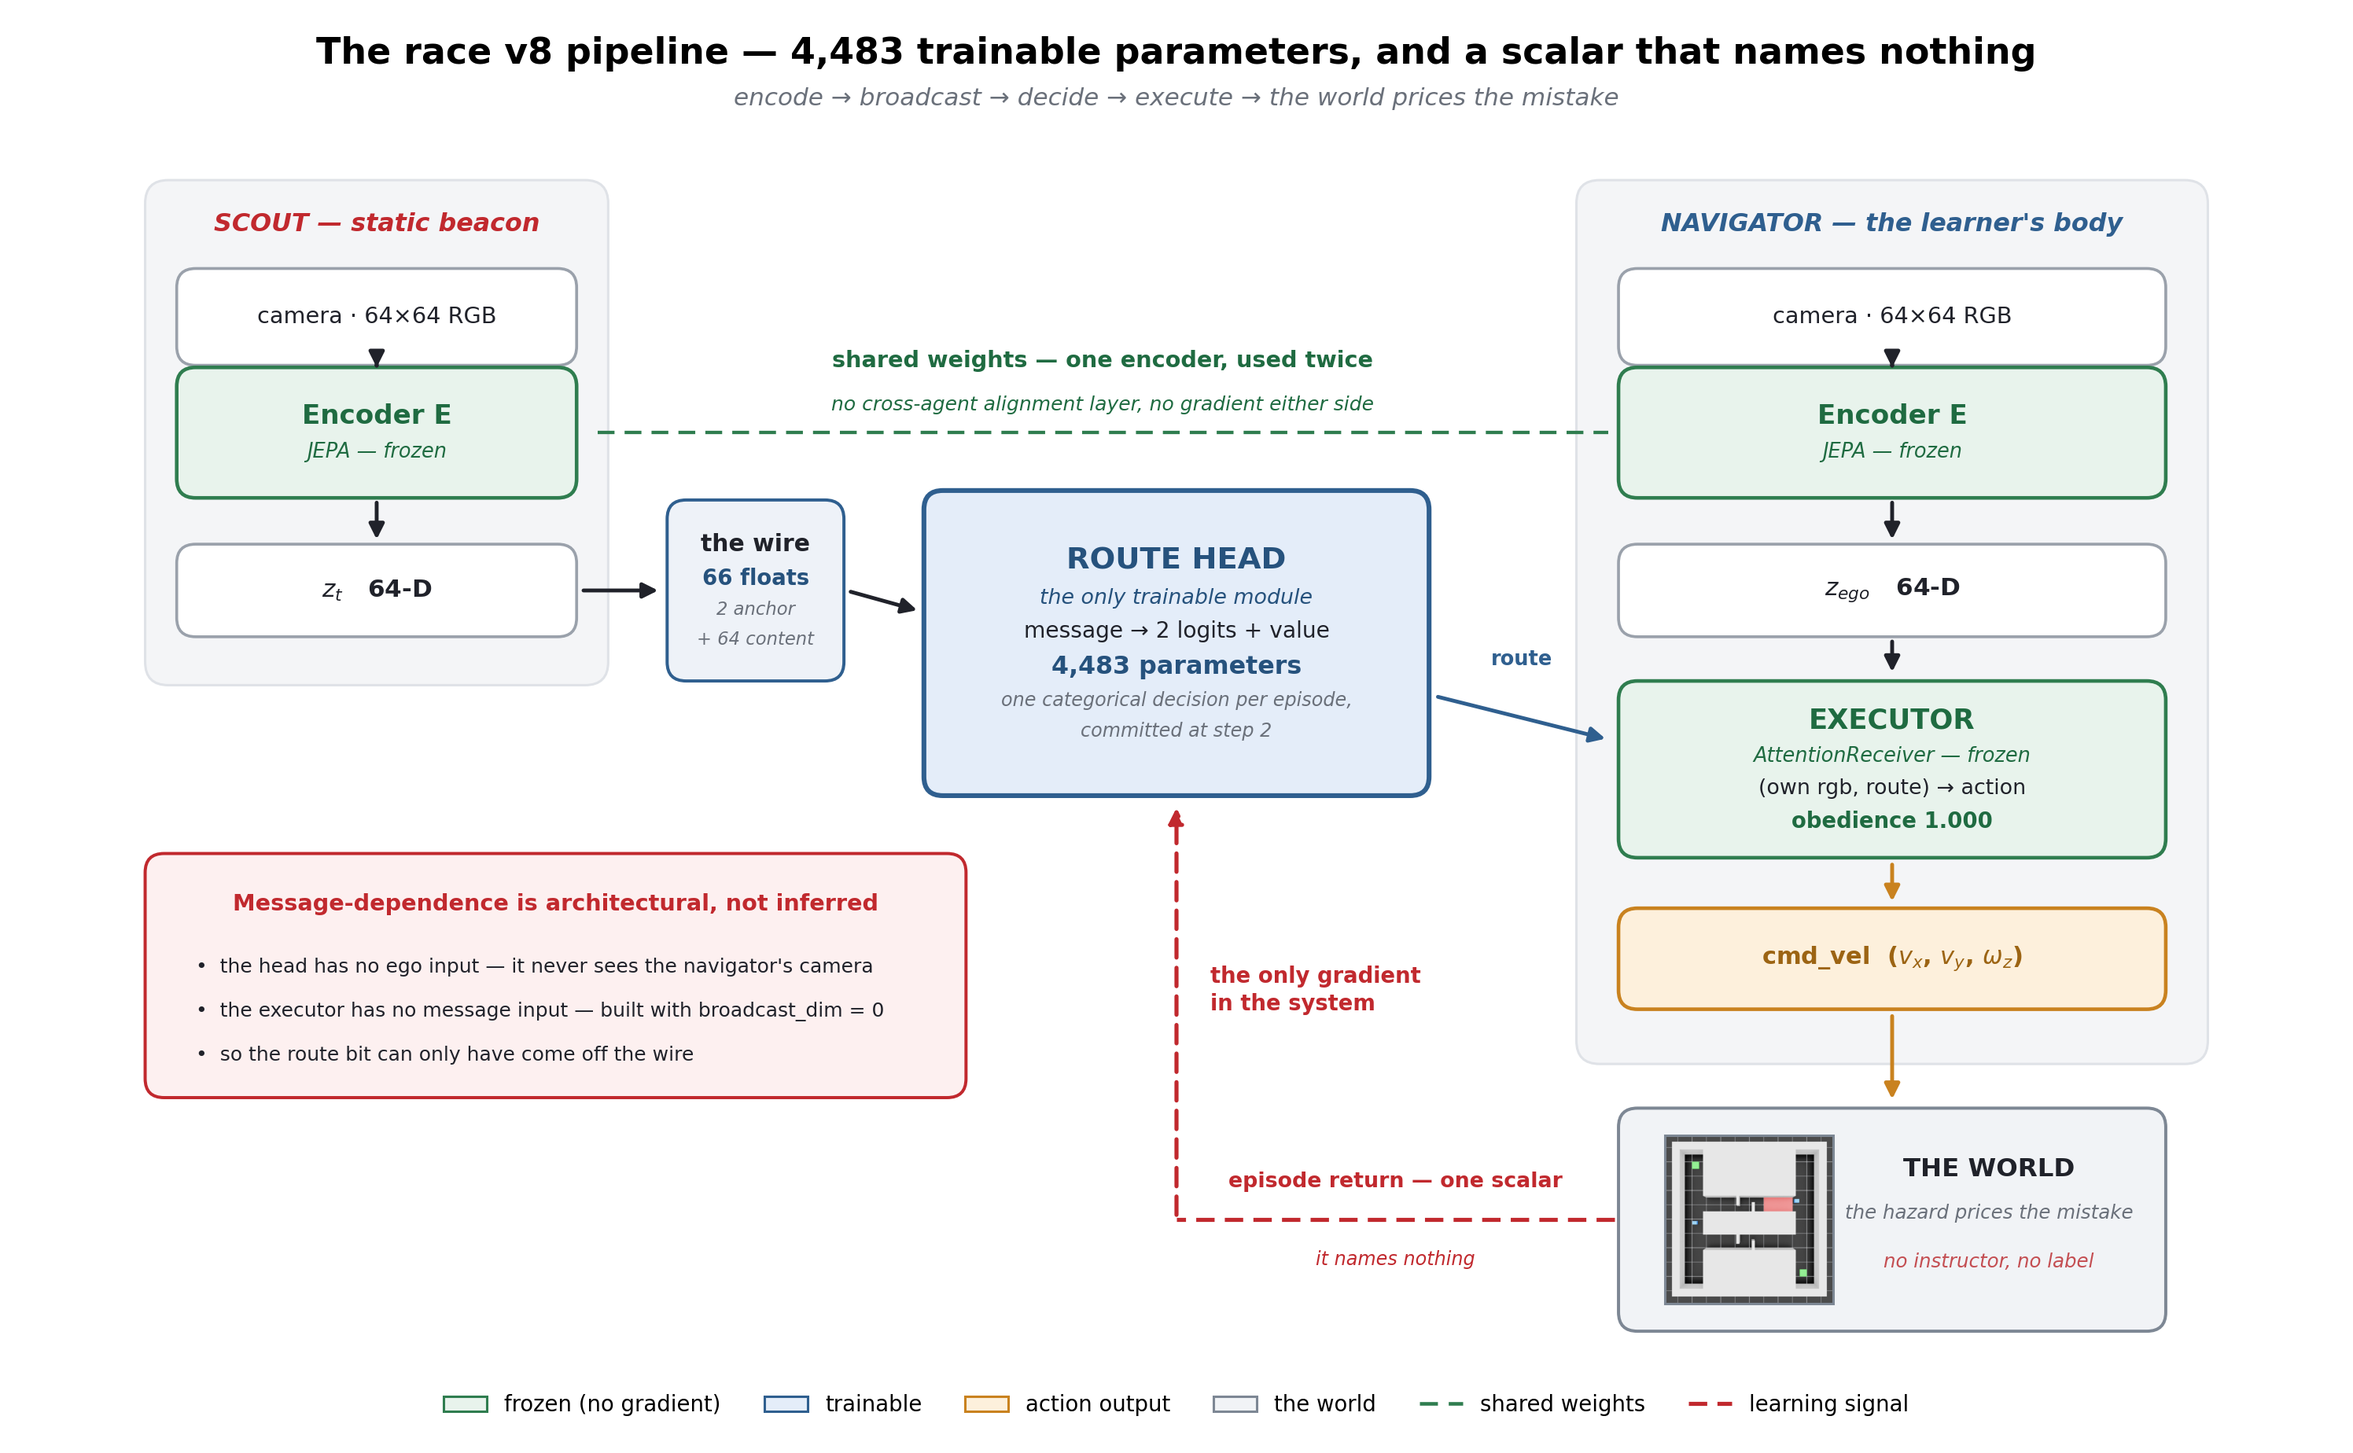
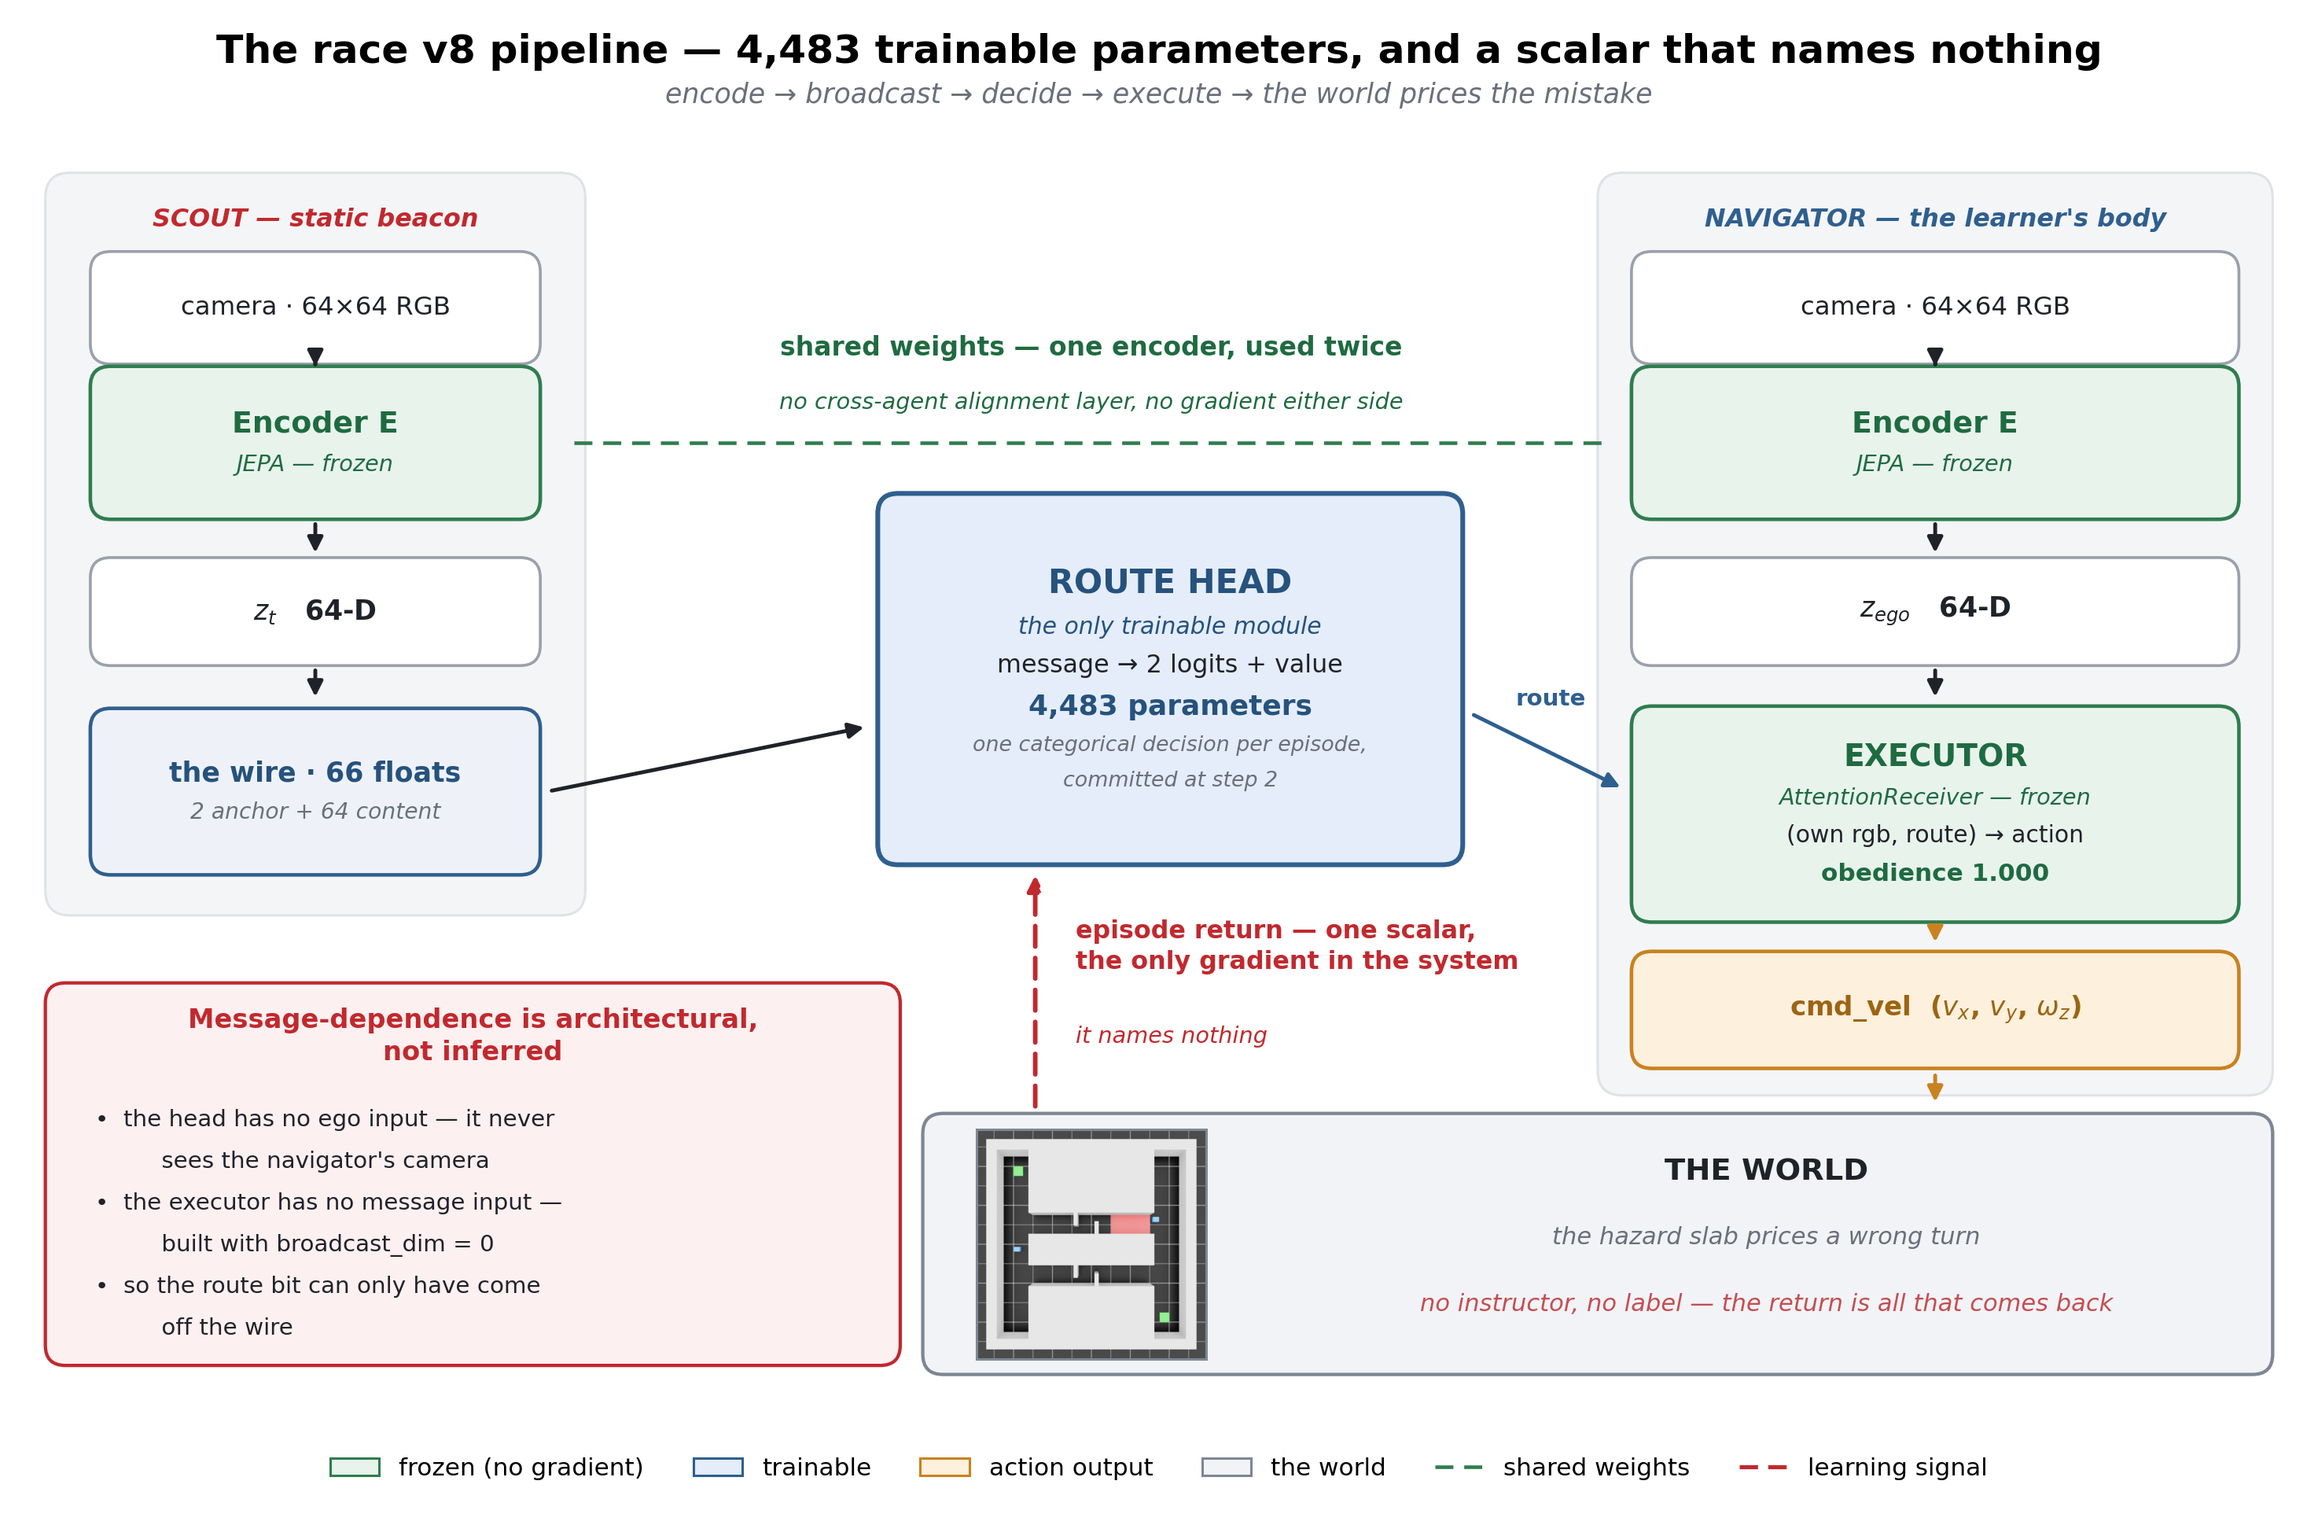
Style(figures): compact the pipeline schematic and enlarge type
Moves the wire to the foot of the scout column so both agent columns reach
down the frame, turns the world into a full-width band the pipeline stands
on, and fills the freed lower-left with the architectural note — closing the
dead quadrant. Figure size now matches the content aspect exactly, so
aspect="equal" no longer letterboxes it with white bars. All type up roughly
15-20%.

diff --git a/rl/plot_fig_pipeline.py b/rl/plot_fig_pipeline.py
@@ -76,118 +76,122 @@ def panel(ax, x0, x1, y0, y1, title, color):
 
 
 def draw(ax, overhead):
-    # ---- agent panels -----------------------------------------------------
-    panel(ax, 2, 24, 34, 58, "SCOUT \u2014 static beacon", GRAD_RED)
-    panel(ax, 70, 100, 16, 58, "NAVIGATOR \u2014 the learner's body", TRAIN_EDGE)
+    # The wire lives at the bottom of the scout's stack so both agent columns
+    # reach down the frame; that is what closes the dead quadrant a shorter
+    # sender column would leave under it.
+    panel(ax, 2, 26, 25, 58, "SCOUT \u2014 static beacon", GRAD_RED)
+    panel(ax, 71, 101, 17, 58, "NAVIGATOR \u2014 the learner's body", TRAIN_EDGE)
 
-    SX, NX = 13, 85
-    y_cam, y_enc, y_z = 51.5, 46.0, 38.5
+    SX, NX = 14, 86
+    y_cam, y_enc, y_z = 52.0, 46.0, 38.5
 
-    for cx, w in ((SX, 19), (NX, 26)):
-        box(ax, cx, y_cam, w, 4.6,
-            [("camera \u00b7 64\u00d764 RGB", 9.4, "normal", "normal", TEXT_DARK)],
+    for cx, w in ((SX, 20), (NX, 27)):
+        box(ax, cx, y_cam, w, 5.0,
+            [("camera \u00b7 64\u00d764 RGB", 10.6, "normal", "normal", TEXT_DARK)],
             face=PLAIN_FACE, edge=PLAIN_EDGE, lw=1.2)
-        box(ax, cx, y_enc, w, 6.2,
-            [("Encoder E", 11.2, "bold", "normal", FROZEN_TEXT),
-             ("JEPA \u2014 frozen", 8.4, "normal", "italic", FROZEN_TEXT)],
+        box(ax, cx, y_enc, w, 6.8,
+            [("Encoder E", 12.4, "bold", "normal", FROZEN_TEXT),
+             ("JEPA \u2014 frozen", 9.4, "normal", "italic", FROZEN_TEXT)],
             face=FROZEN_FACE, edge=FROZEN_EDGE)
-        arrow(ax, (cx, y_cam - 2.3), (cx, y_enc + 3.1))
-        arrow(ax, (cx, y_enc - 3.1), (cx, y_z + 2.2))
+        arrow(ax, (cx, y_cam - 2.5), (cx, y_enc + 3.4))
+        arrow(ax, (cx, y_enc - 3.4), (cx, y_z + 2.4))
 
-    box(ax, SX, y_z, 19, 4.4,
-        [("$z_t$   64-D", 10.2, "bold", "normal", TEXT_DARK)],
+    box(ax, SX, y_z, 20, 4.8,
+        [("$z_t$   64-D", 11.4, "bold", "normal", TEXT_DARK)],
         face=PLAIN_FACE, edge=PLAIN_EDGE, lw=1.2)
-    box(ax, NX, y_z, 26, 4.4,
-        [("$z_{ego}$   64-D", 10.2, "bold", "normal", TEXT_DARK)],
+    box(ax, NX, y_z, 27, 4.8,
+        [("$z_{ego}$   64-D", 11.4, "bold", "normal", TEXT_DARK)],
         face=PLAIN_FACE, edge=PLAIN_EDGE, lw=1.2)
 
     # one encoder, used twice — no alignment layer anywhere
-    ax.plot([23.5, 71.5], [y_enc, y_enc], color=FROZEN_EDGE, lw=1.4,
+    ax.plot([25.5, 71.5], [y_enc, y_enc], color=FROZEN_EDGE, lw=1.5,
             ls=(0, (5, 3)), zorder=2)
-    ax.text(47.5, y_enc + 3.4, "shared weights \u2014 one encoder, used twice",
-            ha="center", va="center", fontsize=9.4, fontweight="bold",
+    ax.text(48.5, y_enc + 4.2, "shared weights \u2014 one encoder, used twice",
+            ha="center", va="center", fontsize=10.8, fontweight="bold",
             color=FROZEN_TEXT)
-    ax.text(47.5, y_enc + 1.3, "no cross-agent alignment layer, no gradient either side",
-            ha="center", va="center", fontsize=8.2, style="italic", color=FROZEN_TEXT)
+    ax.text(48.5, y_enc + 1.8, "no cross-agent alignment layer, no gradient either side",
+            ha="center", va="center", fontsize=9.4, style="italic", color=FROZEN_TEXT)
 
     # ---- the wire ---------------------------------------------------------
-    box(ax, 31, y_z, 8.4, 8.6,
-        [("the wire", 9.8, "bold", "normal", TEXT_DARK),
-         ("66 floats", 9.0, "bold", "normal", TRAIN_TEXT),
-         ("2 anchor", 7.4, "normal", "italic", NOTE_GRAY),
-         ("+ 64 content", 7.4, "normal", "italic", NOTE_GRAY)],
-        face="#eef2f8", edge=TRAIN_EDGE, lw=1.3)
-    arrow(ax, (22.6, y_z), (26.6, y_z))
+    box(ax, SX, 30.5, 20, 7.4,
+        [("the wire \u00b7 66 floats", 11.4, "bold", "normal", TRAIN_TEXT),
+         ("2 anchor + 64 content", 9.2, "normal", "italic", NOTE_GRAY)],
+        face="#eef2f8", edge=TRAIN_EDGE, lw=1.5)
+    arrow(ax, (SX, y_z - 2.4), (SX, 34.5))
 
     # ---- the route head ---------------------------------------------------
-    box(ax, 51, 36, 24, 14.5,
-        [("ROUTE HEAD", 12.6, "bold", "normal", TRAIN_TEXT),
-         ("the only trainable module", 8.8, "normal", "italic", TRAIN_TEXT),
-         ("message \u2192 2 logits + value", 9.2, "normal", "normal", TEXT_DARK),
-         ("4,483 parameters", 10.4, "bold", "normal", TRAIN_TEXT),
-         ("one categorical decision per episode,", 7.8, "normal", "italic", NOTE_GRAY),
-         ("committed at step 2", 7.8, "normal", "italic", NOTE_GRAY)],
+    box(ax, 52, 35.5, 26, 16.5,
+        [("ROUTE HEAD", 14.0, "bold", "normal", TRAIN_TEXT),
+         ("the only trainable module", 9.8, "normal", "italic", TRAIN_TEXT),
+         ("message \u2192 2 logits + value", 10.4, "normal", "normal", TEXT_DARK),
+         ("4,483 parameters", 11.8, "bold", "normal", TRAIN_TEXT),
+         ("one categorical decision per episode,", 8.8, "normal", "italic", NOTE_GRAY),
+         ("committed at step 2", 8.8, "normal", "italic", NOTE_GRAY)],
         face=TRAIN_FACE, edge=TRAIN_EDGE, lw=2.0)
-    arrow(ax, (35.3, y_z), (38.9, 37.5))
+    arrow(ax, (24.3, 30.5), (38.6, 33.4))
 
     # ---- executor and action ---------------------------------------------
-    box(ax, NX, 30, 26, 8.4,
-        [("EXECUTOR", 11.6, "bold", "normal", FROZEN_TEXT),
-         ("AttentionReceiver \u2014 frozen", 8.4, "normal", "italic", FROZEN_TEXT),
-         ("(own rgb, route) \u2192 action", 8.8, "normal", "normal", TEXT_DARK),
-         ("obedience 1.000", 9.0, "bold", "normal", FROZEN_TEXT)],
+    box(ax, NX, 29.5, 27, 9.6,
+        [("EXECUTOR", 12.8, "bold", "normal", FROZEN_TEXT),
+         ("AttentionReceiver \u2014 frozen", 9.4, "normal", "italic", FROZEN_TEXT),
+         ("(own rgb, route) \u2192 action", 9.8, "normal", "normal", TEXT_DARK),
+         ("obedience 1.000", 10.2, "bold", "normal", FROZEN_TEXT)],
         face=FROZEN_FACE, edge=FROZEN_EDGE)
-    arrow(ax, (NX, y_z - 2.2), (NX, 34.4))
-    arrow(ax, (63.2, 33.5), (71.6, 31.4), color=TRAIN_EDGE)
-    ax.text(67.4, 35.2, "route", ha="center", va="center", fontsize=8.4,
+    arrow(ax, (NX, y_z - 2.4), (NX, 34.5))
+    arrow(ax, (65.3, 34.0), (72.2, 30.6), color=TRAIN_EDGE)
+    ax.text(68.9, 34.6, "route", ha="center", va="center", fontsize=9.6,
             fontweight="bold", color=TRAIN_EDGE)
 
-    box(ax, NX, 21, 26, 4.8,
-        [("cmd_vel  ($v_x$, $v_y$, $\\omega_z$)", 10.0, "bold", "normal", ACTION_TEXT)],
+    box(ax, NX, 20.8, 27, 5.2,
+        [("cmd_vel  ($v_x$, $v_y$, $\\omega_z$)", 11.2, "bold", "normal", ACTION_TEXT)],
         face=ACTION_FACE, edge=ACTION_EDGE)
-    arrow(ax, (NX, 25.7), (NX, 23.5), color=ACTION_EDGE)
+    arrow(ax, (NX, 24.6), (NX, 23.6), color=ACTION_EDGE)
 
-    # ---- the world, and the only gradient in the system -------------------
-    box(ax, NX, 8.6, 26, 10.6, [], face=WORLD_FACE, edge=WORLD_EDGE, lw=1.3)
+    # ---- the world: a full-width floor the whole pipeline stands on -------
+    box(ax, 71, 10.4, 60, 11.6, [], face=WORLD_FACE, edge=WORLD_EDGE, lw=1.4)
     img = plt.imread(overhead)
-    ax.imshow(img, extent=[74.2, 82.2, 4.6, 12.6], aspect="auto", zorder=6)
-    ax.add_patch(Rectangle((74.2, 4.6), 8.0, 8.0, facecolor="none",
+    ax.imshow(img, extent=[43.4, 53.6, 5.3, 15.5], aspect="auto", zorder=6)
+    ax.add_patch(Rectangle((43.4, 5.3), 10.2, 10.2, facecolor="none",
                            edgecolor=WORLD_EDGE, linewidth=1.0, zorder=7))
-    ax.text(89.6, 11.0, "THE WORLD", ha="center", va="center", fontsize=10.6,
+    ax.text(78.5, 13.6, "THE WORLD", ha="center", va="center", fontsize=12.6,
             fontweight="bold", color=TEXT_DARK, zorder=7)
-    ax.text(89.6, 8.9, "the hazard prices the mistake", ha="center", va="center",
-            fontsize=8.0, style="italic", color=NOTE_GRAY, zorder=7)
-    ax.text(89.6, 6.6, "no instructor, no label", ha="center", va="center",
-            fontsize=8.0, style="italic", color=HAZARD_C, zorder=7)
-    arrow(ax, (NX, 18.5), (NX, 14.1), color=ACTION_EDGE)
+    ax.text(78.5, 10.7, "the hazard slab prices a wrong turn", ha="center",
+            va="center", fontsize=10.0, style="italic", color=NOTE_GRAY, zorder=7)
+    ax.text(78.5, 7.7, "no instructor, no label \u2014 the return is all that comes back",
+            ha="center", va="center", fontsize=10.0, style="italic",
+            color=HAZARD_C, zorder=7)
+    arrow(ax, (NX, 18.1), (NX, 16.5), color=ACTION_EDGE)
 
-    # the return: world -> left -> up into the head, and nowhere else
-    ax.plot([71.8, 51], [8.6, 8.6], color=GRAD_RED, lw=1.7, ls=(0, (4.5, 2.5)), zorder=6)
-    arrow(ax, (51, 8.6), (51, 28.4), color=GRAD_RED, lw=1.7, dashed=True)
-    ax.text(61.4, 10.4, "episode return \u2014 one scalar",
-            ha="center", va="center", fontsize=8.8, fontweight="bold", color=GRAD_RED)
-    ax.text(61.4, 8.6 - 1.9, "it names nothing", ha="center", va="center",
-            fontsize=7.8, style="italic", color=GRAD_RED)
-    ax.text(52.6, 19.5, "the only gradient\nin the system", ha="left", va="center",
-            fontsize=9.0, fontweight="bold", color=GRAD_RED, linespacing=1.3)
+    # the return: straight up into the head, and nowhere else. It runs in the
+    # one clear lane between the note and the navigator column.
+    arrow(ax, (46, 16.3), (46, 27.0), color=GRAD_RED, lw=1.9, dashed=True)
+    ax.text(47.8, 23.6, "episode return \u2014 one scalar,\nthe only gradient in the system",
+            ha="left", va="center", fontsize=10.4, fontweight="bold",
+            color=GRAD_RED, linespacing=1.35)
+    ax.text(47.8, 19.6, "it names nothing", ha="left", va="center", fontsize=9.4,
+            style="italic", color=GRAD_RED)
 
     # ---- the two paths that do not exist ----------------------------------
-    ax.add_patch(FancyBboxPatch((2, 14.4), 39, 11.6,
+    ax.add_patch(FancyBboxPatch((2, 5.0), 38, 17.0,
                                 boxstyle="round,pad=0.0,rounding_size=0.9",
                                 facecolor="#fdf0f0", edgecolor=GRAD_RED,
-                                linewidth=1.3, zorder=5))
-    ax.text(21.5, 23.6, "Message-dependence is architectural, not inferred",
-            ha="center", va="center", fontsize=9.4, fontweight="bold",
-            color=GRAD_RED, zorder=6)
+                                linewidth=1.4, zorder=5))
+    ax.text(21, 19.6, "Message-dependence is architectural,\nnot inferred",
+            ha="center", va="center", fontsize=11.0, fontweight="bold",
+            color=GRAD_RED, zorder=6, linespacing=1.3)
     for i, line in enumerate((
-            "the head has no ego input \u2014 it never sees the navigator's camera",
-            "the executor has no message input \u2014 built with broadcast_dim = 0",
-            "so the route bit can only have come off the wire")):
-        ax.text(4.4, 20.6 - i * 2.1, "\u2022  " + line, ha="left", va="center",
-                fontsize=8.2, color=TEXT_DARK, zorder=6)
+            "the head has no ego input \u2014 it never",
+            "     sees the navigator's camera",
+            "the executor has no message input \u2014",
+            "     built with broadcast_dim = 0",
+            "so the route bit can only have come",
+            "     off the wire")):
+        bullet = "\u2022  " if i % 2 == 0 else "    "
+        ax.text(4.2, 15.9 - i * 1.85, bullet + line, ha="left", va="center",
+                fontsize=9.6, color=TEXT_DARK, zorder=6)
 
-    ax.set_xlim(0, 102)
-    ax.set_ylim(2, 60)
+    ax.set_xlim(0.5, 102.5)
+    ax.set_ylim(3.5, 59.5)
     ax.set_aspect("equal")
     ax.axis("off")
 
@@ -198,14 +202,16 @@ def main():
     ap.add_argument("--out", default="plots/diagrams/fig_tier2_pipeline.png")
     args = ap.parse_args()
 
-    fig, ax = plt.subplots(figsize=(13.6, 8.4))
+    # sized so the axes aspect matches the 102x56 content box exactly —
+    # otherwise aspect="equal" letterboxes it with white bars
+    fig, ax = plt.subplots(figsize=(13.4, 8.75))
     draw(ax, args.overhead)
 
     fig.suptitle("The race v8 pipeline \u2014 4,483 trainable parameters, and a scalar that names nothing",
-                 fontsize=15.0, fontweight="bold", y=0.975)
-    fig.text(0.5, 0.932,
+                 fontsize=16.5, fontweight="bold", y=0.978)
+    fig.text(0.5, 0.937,
              "encode \u2192 broadcast \u2192 decide \u2192 execute \u2192 the world prices the mistake",
-             ha="center", va="center", fontsize=10.2, color=NOTE_GRAY, style="italic")
+             ha="center", va="center", fontsize=11.4, color=NOTE_GRAY, style="italic")
 
     handles = [
         FancyBboxPatch((0, 0), 1, 1, boxstyle="round,pad=0.0", facecolor=FROZEN_FACE,
@@ -222,9 +228,9 @@ def main():
                    label="learning signal"),
     ]
     fig.legend(handles=handles, loc="lower center", ncol=6, frameon=False,
-               fontsize=9.0, bbox_to_anchor=(0.5, 0.012))
+               fontsize=10.2, bbox_to_anchor=(0.5, 0.008))
 
-    fig.subplots_adjust(left=0.005, right=0.995, top=0.905, bottom=0.065)
+    fig.subplots_adjust(left=0.005, right=0.995, top=0.912, bottom=0.072)
     Path(args.out).parent.mkdir(parents=True, exist_ok=True)
     fig.savefig(args.out, dpi=220, facecolor="white")
     print(f"wrote {args.out}")
